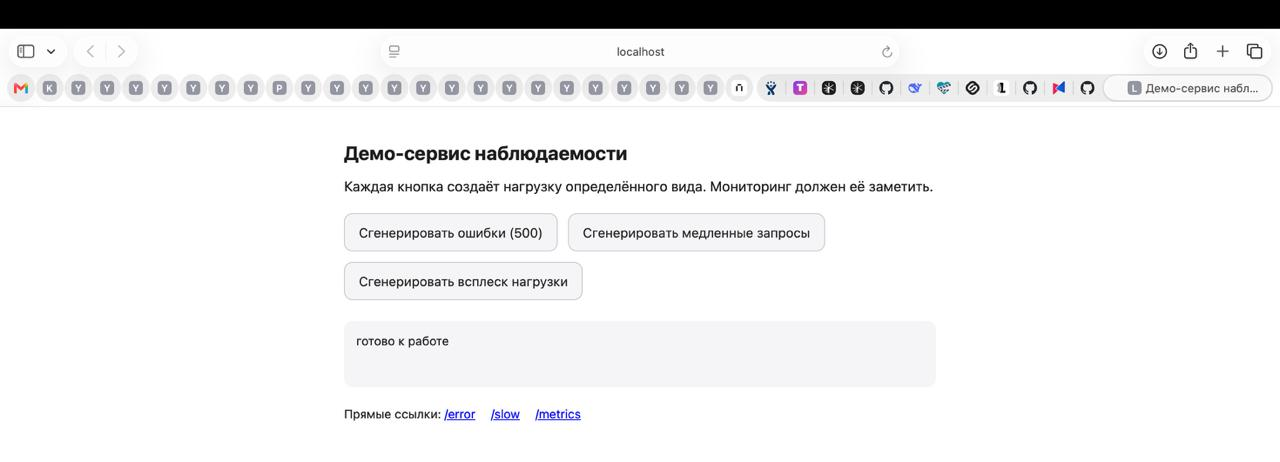
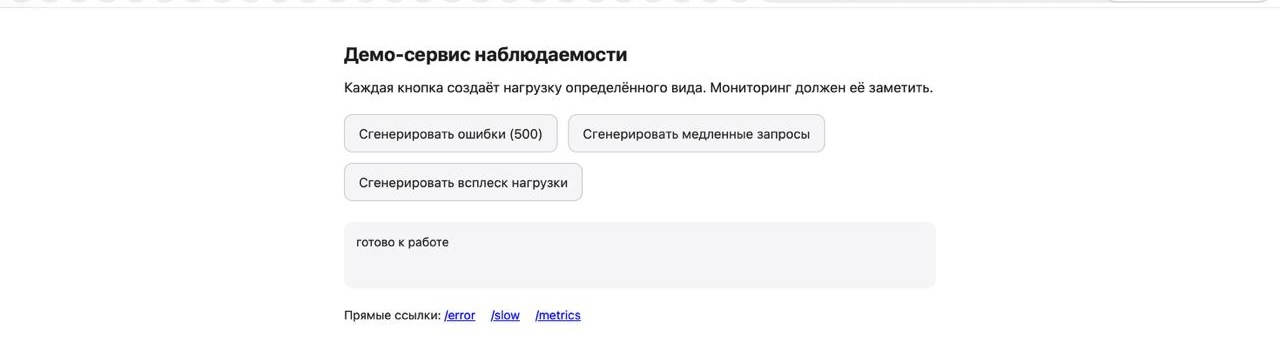
lab_2: пересобранные скриншоты, правка текста

diff --git a/lab_2/README.md b/lab_2/README.md
@@ -471,4 +471,4 @@ receivers:
 
 Писали на Python + FastAPI, метрики — через `prometheus_client`, трейсы — через `opentelemetry-sdk`. Инфраструктура: Docker Compose, Prometheus, Alertmanager, Grafana, Loki, Promtail, Jaeger.
 
-По политике курса (`AGENTS.md` / `CLAUDE.md`) пользовались AI-ассистентом — для генерации каркаса конфигов и кода сервиса и для пошагового разбора незнакомых компонентов. Устройство каждого элемента стека, назначение файлов, смысл PromQL-выражений и обоснование порогов алертов разбирали отдельно — всё это своими словами изложено в этом отчёте.
+По политике курса (`AGENTS.md` / `CLAUDE.md`) пользовались AI-ассистентом — для генерации каркаса конфигов и кода сервиса и для пошагового разбора незнакомых компонентов.
